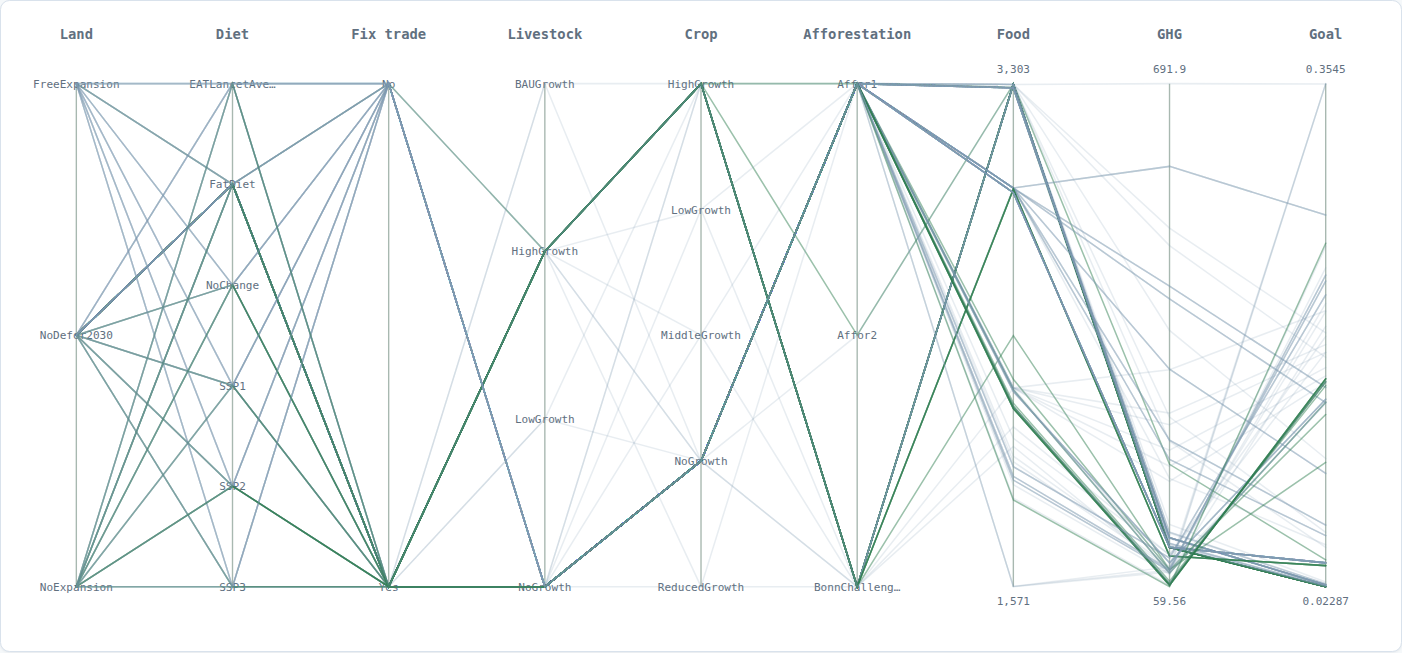
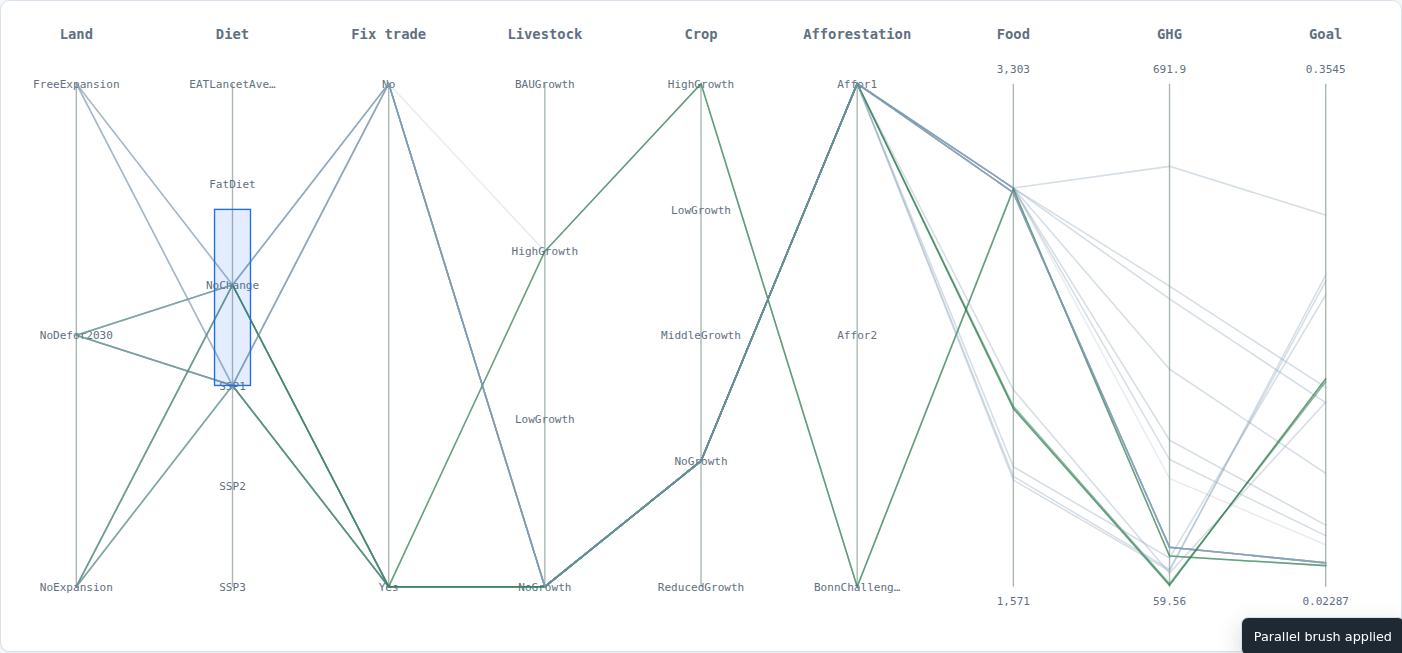
P46: Parallel Axis Brushing (#291)
* P46.1 add parallel axis brushing

* P46.1 record PR #291

diff --git a/src/fable_pyculator/web/static/app.js b/src/fable_pyculator/web/static/app.js
@@ -25,6 +25,7 @@ const state = {
     mesh: null,
     selected: null,
     reference: null,
+    brush: null,
     filtered: [],
     pinned: [],
     pending: null,
@@ -234,6 +235,7 @@ async function loadOptimizationFrontier(version) {
   state.optimization.data = data;
   state.optimization.selected = null;
   state.optimization.reference = null;
+  state.optimization.brush = null;
   state.optimization.pinned = [];
   state.optimization.filtered = [];
   $("#pareto-info").innerHTML = '<p class="hint">Select a point to inspect its exact objectives and selections.</p>';
@@ -610,13 +612,92 @@ function shortenParallelLabel(value, limit = 13) {
   return text.length > limit ? `${text.slice(0, limit - 1)}…` : text;
 }
 
+
+const PARALLEL_TOP = 54;
+const PARALLEL_PLOT_HEIGHT = 364;
+
+function parallelAxisNormalized(data, key, value) {
+  const axis = PARALLEL_AXES.find((item) => item.key === key);
+  if (!axis) return 0.5;
+  if (axis.kind === "control") {
+    const values = [...new Set((data.points || []).map((point) => optimizationControlValue(point, key)))].sort();
+    const index = values.indexOf(String(value));
+    return values.length <= 1 || index < 0 ? 0.5 : index / (values.length - 1);
+  }
+  const bounds = data.ranges?.[key] || [0, 1];
+  const low = Number(bounds[0]);
+  const high = Number(bounds[1]);
+  const number = Number(value);
+  return Math.abs(high - low) <= 1e-12 ? 0.5 : 1 - (number - low) / (high - low);
+}
+
+function parallelBrushMatches(data, point) {
+  const brush = state.optimization.brush;
+  if (!brush) return true;
+  const normalized = parallelAxisNormalized(data, brush.axisKey, parallelValue(point, brush.axisKey));
+  const low = Math.min(brush.start, brush.end);
+  const high = Math.max(brush.start, brush.end);
+  return normalized >= low - 1e-9 && normalized <= high + 1e-9;
+}
+
+function updateParallelBrushLabel() {
+  const label = $("#parallel-brush-label");
+  const clear = $("#parallel-clear-brush");
+  const brush = state.optimization.brush;
+  if (!brush) {
+    if (label) label.textContent = "";
+    if (clear) clear.disabled = true;
+    return;
+  }
+  const axis = PARALLEL_AXES.find((item) => item.key === brush.axisKey);
+  const low = Math.min(brush.start, brush.end);
+  const high = Math.max(brush.start, brush.end);
+  if (label) label.textContent = `Brush ${axis?.label || brush.axisKey}: ${(low * 100).toFixed(0)}–${(high * 100).toFixed(0)}%`;
+  if (clear) clear.disabled = false;
+}
+
+function beginParallelBrush(event, axisKey) {
+  event.preventDefault();
+  const svg = $("#parallel-chart");
+  if (!svg) return;
+  const rect = svg.getBoundingClientRect();
+  const normalize = (clientY) => {
+    const viewY = ((clientY - rect.top) * 460) / Math.max(rect.height, 1);
+    return Math.max(0, Math.min(1, (viewY - PARALLEL_TOP) / PARALLEL_PLOT_HEIGHT));
+  };
+  state.optimization.brush = { axisKey, start: normalize(event.clientY), end: normalize(event.clientY) };
+  drawParallelCoordinates();
+  const onMove = (moveEvent) => {
+    if (!state.optimization.brush) return;
+    state.optimization.brush.end = normalize(moveEvent.clientY);
+    drawParallelCoordinates();
+  };
+  const onUp = () => {
+    document.removeEventListener("pointermove", onMove);
+    const brush = state.optimization.brush;
+    if (brush && Math.abs(brush.end - brush.start) < 0.01) state.optimization.brush = null;
+    drawOptimization();
+    toast(state.optimization.brush ? "Parallel brush applied" : "Brush cleared");
+  };
+  document.addEventListener("pointermove", onMove);
+  document.addEventListener("pointerup", onUp, { once: true });
+}
+
+function clearOptimizationBrush() {
+  state.optimization.brush = null;
+  drawOptimization();
+  persistOptimizationState();
+  toast("Parallel brush cleared");
+}
+
 function drawParallelCoordinates() {
   const data = state.optimization.data;
   const svg = $("#parallel-chart");
   const count = $("#parallel-count");
   if (!data || !svg) return;
   const points = state.optimization.filtered || [];
-  if (count) count.textContent = `${points.length} points · ${PARALLEL_AXES.length} axes`;
+  if (count) count.textContent = `${points.length} / ${data.points.length} points · ${PARALLEL_AXES.length} axes`;
+  updateParallelBrushLabel();
   if (!points.length) {
     svg.innerHTML = '<text class="parallel-empty" x="500" y="230">No exact points pass the current filters.</text>';
     return;
@@ -632,24 +713,14 @@ function drawParallelCoordinates() {
   const axisValues = {};
   for (const axis of PARALLEL_AXES) {
     if (axis.kind === "control") {
-      axisValues[axis.key] = [...new Set(points.map((point) => optimizationControlValue(point, axis.key)))].sort();
+      axisValues[axis.key] = [...new Set((data.points || []).map((point) => optimizationControlValue(point, axis.key)))].sort();
     } else if (axis.key === "goal") {
       axisValues[axis.key] = data.ranges?.goal || [0, 1];
     } else {
       axisValues[axis.key] = data.ranges?.[axis.key] || [0, 1];
     }
   }
-  const yFor = (axis, value) => {
-    if (axis.kind === "control") {
-      const values = axisValues[axis.key];
-      const index = values.indexOf(String(value));
-      return top + (values.length <= 1 ? 0.5 : index / (values.length - 1)) * plotHeight;
-    }
-    const low = Number(axisValues[axis.key][0]);
-    const high = Number(axisValues[axis.key][1]);
-    const number = Number(value);
-    return top + (Math.abs(high - low) <= 1e-12 ? 0.5 : 1 - (number - low) / (high - low)) * plotHeight;
-  };
+  const yFor = (axis, value) => top + parallelAxisNormalized(data, axis.key, value) * plotHeight;
   let markup = "";
   PARALLEL_AXES.forEach((axis, index) => {
     const x = xFor(index);
@@ -679,9 +750,26 @@ function drawParallelCoordinates() {
     if (point.id === state.optimization.reference?.id) classes.push("reference");
     markup += `<polyline class="${classes.join(" ")}" points="${coordinates}" data-parallel-point="${escapeHtml(point.id)}"><title>${escapeHtml(point.id)} · ${escapeHtml(point.origin || "exact")} · Food ${formatNumber(point.objectives?.food_total_kcal_feas, 4)} · GHG ${formatNumber(point.objectives?.ghg_total_co2e, 4)} · Goal ${formatNumber(point.goal, 4)}</title></polyline>`;
   }
+  const brush = state.optimization.brush;
+  if (brush) {
+    const axisIndex = PARALLEL_AXES.findIndex((axis) => axis.key === brush.axisKey);
+    if (axisIndex >= 0) {
+      const x = xFor(axisIndex);
+      const low = Math.min(brush.start, brush.end);
+      const high = Math.max(brush.start, brush.end);
+      markup += `<rect class="parallel-brush" x="${x - 13}" y="${top + low * plotHeight}" width="26" height="${Math.max(2, (high - low) * plotHeight)}"></rect>`;
+    }
+  }
+  PARALLEL_AXES.forEach((axis, index) => {
+    const x = xFor(index);
+    markup += `<rect class="parallel-brush-hit" x="${x - 13}" y="${top}" width="26" height="${plotHeight}" data-parallel-axis="${escapeHtml(axis.key)}"></rect>`;
+  });
   svg.innerHTML = markup;
   svg.querySelectorAll("[data-parallel-point]").forEach((line) => {
     line.addEventListener("click", () => selectOptimizationPoint(line.dataset.parallelPoint));
+  });
+  svg.querySelectorAll("[data-parallel-axis]").forEach((element) => {
+    element.addEventListener("pointerdown", (event) => beginParallelBrush(event, element.dataset.parallelAxis));
   });
 }
 
@@ -759,6 +847,7 @@ function drawOptimization() {
   const threshold = Number($("#pareto-floor").value) / 100;
   const frontOnly = $("#pareto-front-only").checked;
   const warningFree = $("#pareto-warning-free")?.checked;
+  const brush = state.optimization.brush;
   const filtered = data.points
     .map((point) => ({
       point,
@@ -772,7 +861,8 @@ function drawOptimization() {
       (entry) =>
         (!frontOnly || entry.point.front) &&
         (!warningFree || !(entry.point.warnings || []).length) &&
-        (threshold <= 0 || entry.floor >= threshold),
+        (threshold <= 0 || entry.floor >= threshold) &&
+        (!brush || parallelBrushMatches(data, entry.point)),
     );
   clearOptimizationMesh();
   state.optimization.filtered = filtered.map((entry) => entry.point);
@@ -986,6 +1076,12 @@ function persistOptimizationState() {
   else params.delete("opt_point");
   if (state.optimization.reference?.id) params.set("opt_reference", state.optimization.reference.id);
   else params.delete("opt_reference");
+  if (state.optimization.brush) {
+    const brush = state.optimization.brush;
+    params.set("opt_brush", `${brush.axisKey}:${Math.min(brush.start, brush.end).toFixed(4)}:${Math.max(brush.start, brush.end).toFixed(4)}`);
+  } else {
+    params.delete("opt_brush");
+  }
   const search = params.toString();
   history.replaceState(null, "", `${search ? `?${search}` : ""}${location.hash || "#optimization"}`);
 }
@@ -1018,6 +1114,21 @@ function restoreOptimizationState() {
   if (front) front.checked = params.get("opt_front") === "1";
   const warningFree = $("#pareto-warning-free");
   if (warningFree) warningFree.checked = params.get("opt_nowarn") === "1";
+  const brushParam = params.get("opt_brush");
+  if (brushParam) {
+    const [axisKey, startText, endText] = brushParam.split(":");
+    if (PARALLEL_AXES.some((axis) => axis.key === axisKey)) {
+      const start = Number(startText);
+      const end = Number(endText);
+      if (Number.isFinite(start) && Number.isFinite(end)) {
+        state.optimization.brush = {
+          axisKey,
+          start: Math.max(0, Math.min(1, start)),
+          end: Math.max(0, Math.min(1, end)),
+        };
+      }
+    }
+  }
   const pointId = params.get("opt_point");
   if (pointId) {
     const point = data.points?.find((item) => item.id === pointId);
@@ -1122,6 +1233,7 @@ function bindOptimizationEvents() {
   $("#pareto-warning-free").addEventListener("change", drawOptimization);
   $("#pareto-pin").addEventListener("click", pinOptimizationPoint);
   $("#pareto-reference").addEventListener("click", setOptimizationReference);
+  $("#parallel-clear-brush").addEventListener("click", clearOptimizationBrush);
   $("#pareto-clear-reference").addEventListener("click", clearOptimizationReference);
   $("#pareto-clear-pins").addEventListener("click", clearOptimizationPins);
   $("#pareto-reset").addEventListener("click", resetOptimizationView);

diff --git a/src/fable_pyculator/web/static/index.html b/src/fable_pyculator/web/static/index.html
@@ -345,7 +345,11 @@
                 Same exact points, same filters. Click a line to select it in the 3D view.
               </p>
             </div>
-            <span id="parallel-count" class="pill muted">--</span>
+            <div class="button-row">
+              <span id="parallel-brush-label" class="hint"></span>
+              <button id="parallel-clear-brush" class="button ghost small" type="button" disabled>Clear brush</button>
+              <span id="parallel-count" class="pill muted">--</span>
+            </div>
           </div>
           <div class="panel parallel-panel">
             <svg id="parallel-chart" viewBox="0 0 1000 460" role="img" aria-label="Parallel coordinates of exact Pareto points"></svg>

diff --git a/src/fable_pyculator/web/static/styles.css b/src/fable_pyculator/web/static/styles.css
@@ -624,3 +624,6 @@ summary { cursor: pointer; color: var(--muted); font-size: 0.8rem; font-weight: 
 .pareto-delta .selection-list { max-height: 6.5rem; }
 .parallel-line.reference { stroke: #1f6feb; stroke-width: 2.4; stroke-dasharray: 5 3; opacity: 0.95; }
 .parallel-line.reference.selected { stroke: #c58b16; }
+.parallel-brush { fill: rgba(31, 111, 235, 0.12); stroke: #1f6feb; stroke-width: 1; pointer-events: none; }
+.parallel-brush-hit { fill: transparent; cursor: ns-resize; touch-action: none; }
+.parallel-brush-label { margin-right: 0.2rem; }

diff --git a/tests/web/test_optimization.py b/tests/web/test_optimization.py
@@ -73,6 +73,8 @@ def test_optimization_page_and_vendor_assets_are_served(tmp_path: Path) -> None:
     assert 'id="pareto-reference"' in shell.text
     assert 'id="pareto-clear-reference"' in shell.text
     assert 'id="pareto-delta"' in shell.text
+    assert 'id="parallel-clear-brush"' in shell.text
+    assert 'id="parallel-brush-label"' in shell.text
     assert script.status_code == 200
     assert "drawOptimization" in script.text
     assert "loadOptimizationPointInWorkbench" in script.text
@@ -88,6 +90,10 @@ def test_optimization_page_and_vendor_assets_are_served(tmp_path: Path) -> None:
     assert "setOptimizationReference" in script.text
     assert "renderOptimizationDelta" in script.text
     assert "opt_reference" in script.text
+    assert "beginParallelBrush" in script.text
+    assert "clearOptimizationBrush" in script.text
+    assert "parallelBrushMatches" in script.text
+    assert "opt_brush" in script.text
     assert three.status_code == 200
     assert "THREE" in three.text
     assert controls.status_code == 200

diff --git a/ROADMAP.md b/ROADMAP.md
@@ -127,6 +127,9 @@ Modelwright-generated Python models while preserving Modelwright as the generic 
   through objective and selection deltas, and marked in both the 3D and parallel views. The reference
   is shareable in the URL. PR #288 merged as `59866c5`; parent #286 and child #287 are closed.
   Post-merge Test and Docs Pages passed.
+- Phase 46 is implemented on `feature/p46-parallel-brush`: dragging a range on a parallel-coordinates
+  axis now filters both the parallel and 3D views, with a visible brush band, clear action, and
+  `opt_brush` URL state. Parent #289 and child #290 are mapped; PR #291 and closeout remain.
 - Added a tracked `examples/fable_2024/` generated-model artifact for the 2024 FABLE Calculator
   (Canada) workbook (Modelwright `0.1.0a9` runtime-hardening line), with provenance and validation
   evidence in the example README.
@@ -3528,4 +3531,58 @@ Verification evidence:
 Closeout evidence:
 
 - PR #288 squash-merged as `59866c5`; parent #286 and child #287 closed.
+
+## Phase 46: Parallel Axis Brushing
+
+GitHub parent issue: #289.
+
+Branch: `feature/p46-parallel-brush`.
+
+Status: pr-open.
+
+Pull request: #291.
+
+Goal: add brush-to-filter on the parallel-coordinates axes, synchronized with the 3D exact viewer.
+
+Tasks:
+
+- [x] P46.1 Add parallel axis brushing and shareable brush state. Child issue: #290.
+
+Scope:
+
+- Drag a vertical range on any parallel axis.
+- Filter both the parallel view and 3D view.
+- Show a brush band and clear action.
+- Encode the brush in URL state.
+
+Out of scope:
+
+- New optimization runs.
+- Multiple simultaneous brush ranges.
+- Surrogate or global-frontier claims.
+
+Architecture notes:
+
+- Brushes use normalized axis positions so categorical and numeric axes share the same interaction.
+- The brush consumes the same exact points as the quality-floor, warning, and front filters.
+- Clearing the brush restores the other filters.
+
+Implementation evidence:
+
+- Added pointer-drag brushing on all 9 parallel axes.
+- Browser smoke: a diet brush from 25% to 60% reduced both views to 39 of 160 points.
+- Added visible brush band, `Brush Diet: 25-60%` label, and **Clear brush** action.
+- Added `opt_brush` URL state; clearing the brush removes it.
+- Existing reference/delta, hover, share, CSV, pin/compare, and Workbench prefill remain intact.
+
+Verification evidence:
+
+- Full suite: 227 passed, 16 skipped.
+- Ruff passed.
+- Sphinx warning-as-error docs build and theme check passed.
+- Browser smoke passed with no page errors; brush and clear behavior verified.
+
+Closeout evidence:
+
+- Pending phase PR, CI, and review.
 

diff --git a/docs/guides/web-portal.rst b/docs/guides/web-portal.rst
@@ -95,10 +95,11 @@ Optimization
    and actual axis ranges. It also lets you inspect, pin, compare, and load a frontier point into the
    Workbench. A synchronized parallel-coordinates panel shows the same filtered exact points across
    land, diet, trade-fix, livestock, crop, afforestation, food, GHG, and goal axes; clicking a line
-   selects the matching 3D point. A point can be set as a reference, with an exact selected-vs-reference
-   delta card and synchronized reference markers. The current axes, colour, size, filters, selected
-   point, and reference are encoded in the URL; **Copy view link** shares that exact state, and
-   **Download filtered CSV** exports the visible exact points. The viewer reads
+   selects the matching 3D point. Dragging vertically on an axis brushes a range and filters both
+   views; **Clear brush** resets it. A point can be set as a reference, with an exact
+   selected-vs-reference delta card and synchronized reference markers. The current axes, colour,
+   size, filters, brush, selected point, and reference are encoded in the URL; **Copy view link**
+   shares that exact state, and **Download filtered CSV** exports the visible exact points. The viewer reads
    ``examples/optimization/fable_2024/frontier.json`` through
    ``/api/optimization/frontiers``; it never runs an optimizer or a surrogate in the browser.
 

diff --git a/docs/guides/optimization-pilot.rst b/docs/guides/optimization-pilot.rst
@@ -531,8 +531,9 @@ values, the selected point is highlighted, and the panel shows the actual range 
 dimension. A point can be selected, pinned with up to two other points for comparison, and loaded
 into the Workbench as a scenario prefill. A synchronized parallel-coordinates view shows the same
 filtered exact points across controls and outcomes, and clicking a line selects the matching 3D point.
-A selected point can be compared against a reference point with exact objective deltas and changed
-selections; the reference is marked in both views. The view state is shareable through URL query
+Dragging on a parallel axis brushes a range and filters both views. A selected point can be compared
+against a reference point with exact objective deltas and changed selections; the reference is marked
+in both views. The view state, including the brush and reference, is shareable through URL query
 parameters, and the currently filtered exact points can be downloaded as CSV.
 
 This is the same interaction pattern as the urban-forest lab and WS4 Pareto explorer. The FABLE

diff --git a/CHANGE_LOG.md b/CHANGE_LOG.md
@@ -99,6 +99,8 @@ This file records completed project work in chronological order.
   deltas, a blue reference marker in 3D, a dashed reference line in parallel coordinates, and
   `opt_reference` URL state.
   PR #288 merged as `59866c5`; post-merge Test and Docs Pages passed.
+- Added brush-to-filter on the parallel-coordinates axes. Dragging a range filters both the parallel
+  and 3D views, displays a brush band, supports clearing, and persists as `opt_brush` URL state.
 - Added `scripts/check_deployed_portal.py` and Cloudflare Access deployment documentation, then
   merged them in PR #232 (`bd7cd0c`). The checker detects the live
   `fable-pyculator.01101.dev` Access redirect; the version check and `0.1.0a5` upgrade remain
